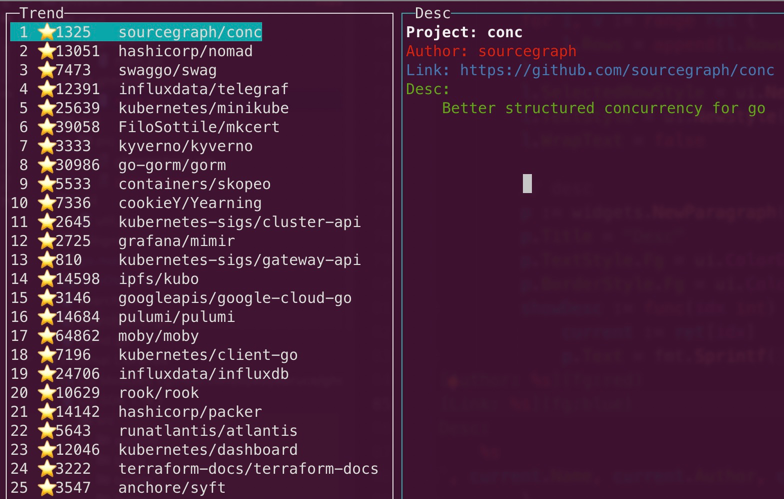
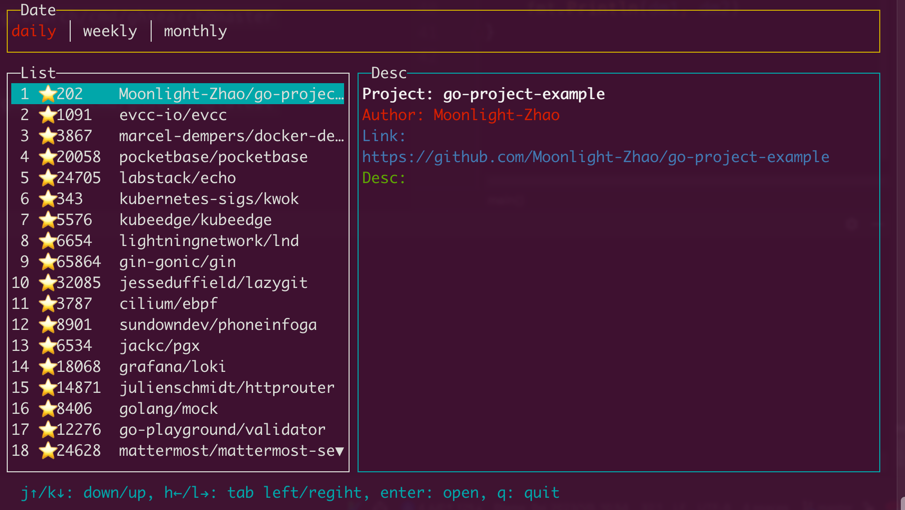
优化ghtrend

Changed region(s): [[0.0, 0.0, 1.0, 1.0], [0.9796, 0.9619, 1.0, 1.0], [0.6429, 0.3607, 0.7041, 0.3908]]

diff --git a/cmd/ghtrend/main.go b/cmd/ghtrend/main.go
@@ -1,20 +1,25 @@
 package main
 
 import (
+	"context"
 	"flag"
 	"fmt"
+	"time"
 
 	"github.com/byebyebruce/ghsearch"
 	"github.com/byebyebruce/ghsearch/util"
 	ui "github.com/gizak/termui/v3"
 	"github.com/gizak/termui/v3/widgets"
-	"github.com/manifoldco/promptui"
+	"golang.org/x/sync/errgroup"
 )
 
 var (
+	dates      = []string{"daily", "weekly", "monthly"}
 	spokenLang = ""
 	lang       = ""
 )
+
+type Repos []*ghsearch.Repository
 
 func main() {
 	flag.StringVar(&spokenLang, "spoken", "", "spoken language[zh/en/de/fr]. empty means any")
@@ -28,138 +33,151 @@ func main() {
 
 	defer ui.Close()
 
-	for {
-		ui.Clear()
-
-		var (
-			err error
-		)
-
-		// select date range
-		prompt := promptui.Select{
-			Label: "select date range",
-			Items: []string{"daily", "weekly", "monthly"},
+	// get data
+	ret, err := util.AsyncTaskAndShowLoadingBar("loading", func() ([]Repos, error) {
+		reps := make([]Repos, len(dates))
+		eg, _ := errgroup.WithContext(context.Background())
+		for i, v := range dates {
+			idx := i
+			date := v
+			eg.Go(func() error {
+				time.Sleep(time.Millisecond * time.Duration(idx*50)) // 避免github api限制
+				ret, err := ghsearch.TrendingRepos(lang, date, spokenLang)
+				if err != nil {
+					return err
+				}
+				reps[idx] = ret
+				return nil
+			})
 		}
-		_, date, err := prompt.Run()
-		if err != nil {
-			return
-		}
+		return reps, eg.Wait()
+	})
+	if err != nil {
+		fmt.Println(err)
+		return
+	}
 
-		// get data
-		ret, err := util.AsyncTaskAndShowLoadingBar("loading", func() ([]*ghsearch.Repository, error) {
-			return ghsearch.TrendingRepos(lang, date, spokenLang)
-		})
-		if err != nil {
-			fmt.Println(err)
-			return
-		}
+	// tab
+	tabpane := widgets.NewTabPane(dates...)
+	tabpane.Title = "Date"
+	tabpane.Border = true
+	tabpane.BorderStyle.Fg = ui.ColorYellow
 
-		// title
-		title := widgets.NewParagraph()
-		title.Title = "Trend"
-		title.TextStyle.Fg = ui.ColorWhite
-		title.Text = fmt.Sprintf("%s:%s", lang, date)
+	// list
+	l := widgets.NewList()
+	l.Title = "List"
+	l.SelectedRowStyle = ui.NewStyle(ui.ColorWhite, ui.ColorCyan)
+	l.TextStyle = ui.NewStyle(ui.ColorWhite)
+	l.WrapText = false
 
-		// input
-		input := widgets.NewParagraph()
-		input.Title = fmt.Sprintf("j/k: up/down, enter: open, q: quit, ctrl+n/p: next/privious page")
-		input.TitleStyle = ui.NewStyle(ui.ColorCyan)
-		input.Border = false
+	// desc
+	p := widgets.NewParagraph()
+	p.Title = "Desc"
+	p.TextStyle.Fg = ui.ColorGreen
+	p.BorderStyle.Fg = ui.ColorCyan
 
-		// list
-		l := widgets.NewList()
-		l.Title = "List"
-		for i, v := range ret {
+	// help
+	help := widgets.NewParagraph()
+	help.Title = fmt.Sprintf("j↑/k↓: down/up, h←/l→: tab left/regiht, enter: open, q: quit")
+	help.TitleStyle = ui.NewStyle(ui.ColorCyan)
+	help.Border = false
+
+	// grid
+	grid := ui.NewGrid()
+	grid.Set(
+		ui.NewCol(0.4, l),
+		ui.NewCol(0.6, p),
+	)
+
+	showList := func(repos Repos) {
+		l.Rows = l.Rows[:0]
+		for i, v := range repos {
 			l.Rows = append(l.Rows, fmt.Sprintf("%2d ⭐%-6d %s/%s", i+1, v.Stars, v.Author, v.Name))
 		}
-		l.SelectedRowStyle = ui.NewStyle(ui.ColorWhite, ui.ColorCyan)
-		l.TextStyle = ui.NewStyle(ui.ColorWhite)
-		l.WrapText = false
+	}
 
-		// desc
-		p := widgets.NewParagraph()
-		p.Title = "Desc"
-		p.TextStyle.Fg = ui.ColorGreen
-		p.BorderStyle.Fg = ui.ColorCyan
-		showDesc := func(idx int) {
-			current := ret[idx]
-			p.Text = fmt.Sprintf(`[Project: %s](fg:white,mod:bold)
+	showDesc := func(current *ghsearch.Repository) {
+		p.Text = fmt.Sprintf(`[Project: %s](fg:white,mod:bold)
 [Author: %s](fg:red)
 [Link: %s](fg:blue)
 Desc: 
     %s
 `, current.Name, current.Author, current.Link, current.Desc)
-		}
-		showDesc(l.SelectedRow)
+	}
 
-		grid := ui.NewGrid()
-		termWidth, termHeight := ui.TerminalDimensions()
-		grid.SetRect(0, 0, termWidth, termHeight)
-		grid.Set(
-			ui.NewCol(0.4, l),
-			ui.NewCol(0.6, p),
-		)
+	currentList := ret[0]
+	onTab := func(index int) {
+		currentList = ret[index]
+		showList(currentList)
+		showDesc(currentList[l.SelectedRow])
+	}
+	onResize := func(w, h int) {
+		ui.Clear()
+		const tabOffset = 3
+		const helpOffset = 1
+		tabpane.SetRect(0, 0, w, tabOffset)
+		grid.SetRect(0, tabOffset, w, h-helpOffset)
+		help.SetRect(0, h-helpOffset, w, h)
 
-		onResize := func(w, h int) {
-			const titleOffset = 3
-			const inputOffset = 1
-			title.SetRect(0, 0, w, titleOffset)
-			grid.SetRect(0, titleOffset, w, h-inputOffset)
-			input.SetRect(0, h-inputOffset, w, h)
-		}
+	}
+	render := func() {
+		ui.Render(tabpane, help, grid)
+	}
 
-		showDesc(l.SelectedRow)
-		onResize(termWidth, termHeight)
-		ui.Render(title, input, grid)
+	termWidth, termHeight := ui.TerminalDimensions()
+	onTab(tabpane.ActiveTabIndex)
+	onResize(termWidth, termHeight)
+	render()
 
-		previousKey := ""
-		uiEvents := ui.PollEvents()
-	LOOP:
-		for {
-			e := <-uiEvents
-			switch e.ID {
-			case "q":
-				break LOOP
-			case "<C-c>":
-				return
-			case "j", "<Down>":
-				l.ScrollDown()
-				showDesc(l.SelectedRow)
-			case "k", "<Up>":
-				l.ScrollUp()
-				showDesc(l.SelectedRow)
-			case "<C-d>":
-				l.ScrollHalfPageDown()
-			case "<C-u>":
-				l.ScrollHalfPageUp()
-			case "<C-f>":
-				l.ScrollPageDown()
-			case "<C-b>":
-				l.ScrollPageUp()
-			case "g":
-				if previousKey == "g" {
-					l.ScrollTop()
-				}
-			case "<Home>":
-				l.ScrollTop()
-			case "G", "<End>":
-				l.ScrollBottom()
-			case "<Enter>":
-				link := ret[l.SelectedRow].Link
-				util.OpenWebBrowser(link)
-			case "<Resize>":
-				payload := e.Payload.(ui.Resize)
-				onResize(payload.Width, payload.Height)
-				ui.Clear()
-			}
-
+	previousKey := ""
+	uiEvents := ui.PollEvents()
+	for {
+		e := <-uiEvents
+		switch e.ID {
+		case "q", "<C-c>":
+			return
+		case "j", "<Down>":
+			l.ScrollDown()
+			showDesc(currentList[l.SelectedRow])
+		case "k", "<Up>":
+			l.ScrollUp()
+			showDesc(currentList[l.SelectedRow])
+		case "h", "<Left>":
+			tabpane.FocusLeft()
+			onTab(tabpane.ActiveTabIndex)
+		case "l", "<Right>":
+			tabpane.FocusRight()
+			onTab(tabpane.ActiveTabIndex)
+		case "<C-d>":
+			l.ScrollHalfPageDown()
+		case "<C-u>":
+			l.ScrollHalfPageUp()
+		case "<C-f>":
+			l.ScrollPageDown()
+		case "<C-b>":
+			l.ScrollPageUp()
+		case "g":
 			if previousKey == "g" {
-				previousKey = ""
-			} else {
-				previousKey = e.ID
+				l.ScrollTop()
 			}
-
-			ui.Render(title, input, grid)
+		case "<Home>":
+			l.ScrollTop()
+		case "G", "<End>":
+			l.ScrollBottom()
+		case "<Enter>":
+			link := currentList[l.SelectedRow].Link
+			util.OpenWebBrowser(link)
+		case "<Resize>":
+			payload := e.Payload.(ui.Resize)
+			onResize(payload.Width, payload.Height)
 		}
+
+		if previousKey == "g" {
+			previousKey = ""
+		} else {
+			previousKey = e.ID
+		}
+
+		render()
 	}
 }

diff --git a/README.md b/README.md
@@ -28,9 +28,4 @@ Show github trending
 ## Usage
 - show: `ghtrend`  
 - help: `ghtrend -h`
-- specific your language: `ghtrend -lang=rust`
-
-## Key (vim style)
-up:`j/↑`  
-down: `k/↓`  
-open link: `enter`  
+- specific your language: `ghtrend -lang=go`
